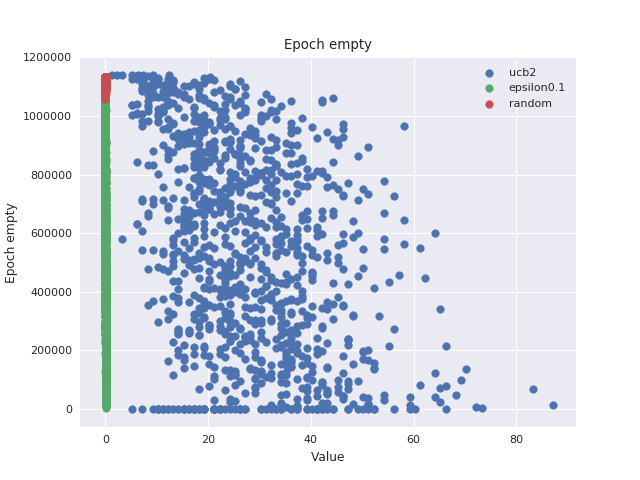
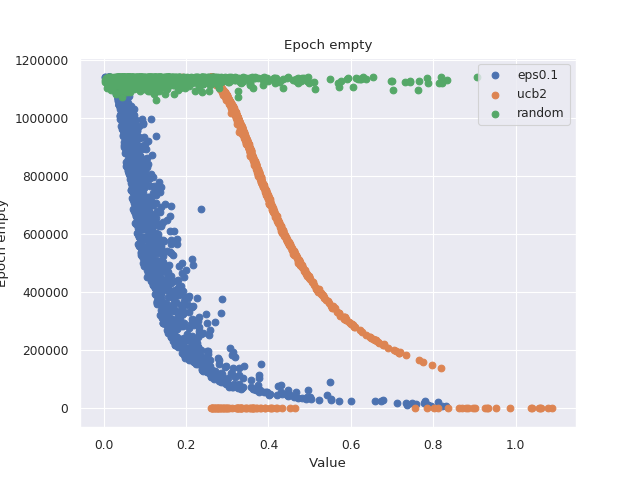
Minor changes on UCB params

diff --git a/src/bandits.py b/src/bandits.py
@@ -39,7 +39,7 @@ class ItemBandit():
         return self.value <= other.value
 
     def __repr__(self):
-        return '{0}\t{1}\t{2}\t{3}\n'.format(self.item, self.time, self.value, self.count)
+        return '{0}\t{1}\t{2}\t{3}\n'.format(self.item, self.time, self.reward, self.count)
 
 class Bandit():
     """
@@ -60,10 +60,9 @@ class Bandit():
                     # Remove the item from the ordered actions set
                     item.count+=1
                     if item.item in splitter.test_set[user].keys():
-                        current_value = item.value
                         n = item.count
                         reward = splitter.test_set[user][item.item]
-                        self.update_item_info(item, current_value, n, reward, criteria)
+                        self.update_item_info(item, n, reward, criteria)
                         # Remove the user from the item_user set
                         try:
                             splitter.item_users[item.item].remove(user)
@@ -104,8 +103,13 @@ class Bandit():
     def select_item(self, splitter, user):
         pass
 
-    def update_item_info(self, item, value, count, reward, criteria):
-        pass
+    def update_item_info(self, item, count, reward, criteria):
+        if criteria == "mean":
+            item.reward = 1/count*((count-1)*item.reward + reward)
+        elif criteria == "cummulative_mean":
+            item.reward = 1/2*(item.reward + reward)
+        else:
+            item.reward = criteria(count, item.reward, reward)
 
     def output_to_file(self, filepath, filepath_2):
         with open(filepath, 'w') as output:
@@ -149,14 +153,9 @@ class EpsilonGreedyBandit(Bandit):
         self.actions.pop(i)
         return item
 
-    def update_item_info(self, item, value, count, reward, criteria):
-        item.reward += reward
-        if criteria == "mean":
-            item.value = 1/count*((count-1)*value + reward)
-        elif criteria == "cummulative_mean":
-            item.value = 1/2*(value + reward)
-        else:
-            item.value = criteria(count, value, reward)
+    def update_item_info(self, item, count, reward, criteria):
+        super().update_item_info(item, count, reward, criteria)
+        item.value = item.reward
 
 class UCBBandit(Bandit):
 
@@ -184,9 +183,9 @@ class UCBBandit(Bandit):
             self.update_train_test(splitter, user, itemb, reward)
         return sorted(actions)
 
-    def update_item_info(self, item, value, count, reward, criteria):
-        item.reward += reward
-        item.uncertainty = self.param*sqrt(np.log(self.time)/item.count)
+    def update_item_info(self, item, count, reward, criteria):
+        super().update_item_info(item, count, reward, criteria)
+        item.uncertainty = sqrt(self.param*np.log(self.time)/item.count)
         item.value = item.reward + item.uncertainty # 1/count*((count-1)*value + reward) + uncertainty
 
         for item2 in self.actions:
@@ -215,7 +214,7 @@ if __name__=="__main__":
     #                             "../results/ucb{0}_recall.txt".format(eps))
 
     spl = Splitter("../data/ratings_binary.txt", " ")
-    eps = 2
-    bandit = UCBBandit(spl)
-    bandit.output_to_file("../results/ucb{0}_epoch.txt".format(eps),
-                          "../results/ucb{0}_recall.txt".format(eps))
+    eps = 1
+    bandit = EpsilonGreedyBandit(eps,spl)
+    bandit.output_to_file("../results/eps{0}_epoch.txt".format(eps),
+                          "../results/eps{0}_recall.txt".format(eps))

diff --git a/src/plot.py b/src/plot.py
@@ -42,7 +42,7 @@ def plot_results_graph(results_file, eps):
 
 if __name__=="__main__":
     fig = plt.figure()
-    files = ["ucb2", "epsilon0.1", "random"]
+    files = ["eps0.1", "ucb2", "random"]
     for f in files:
         res_file = "../results/" + f + "_recall.txt"
         plot_results_graph(res_file, f)
